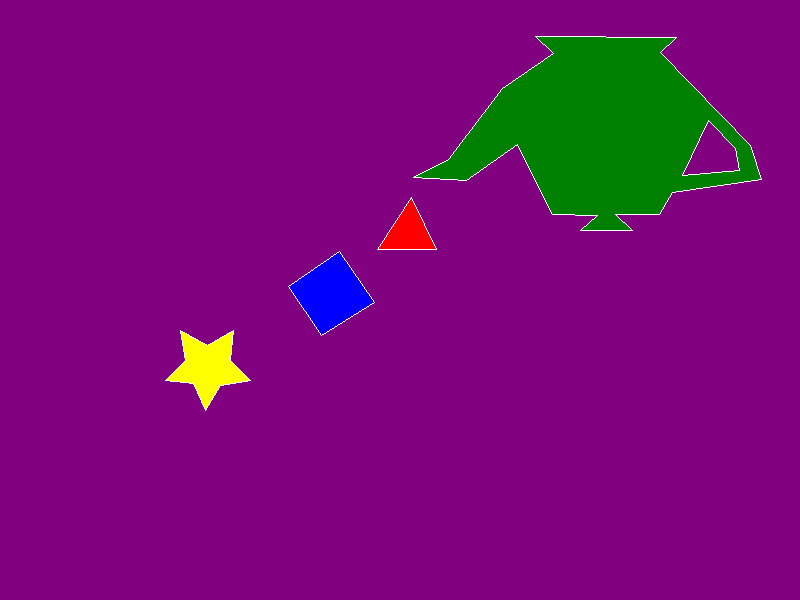
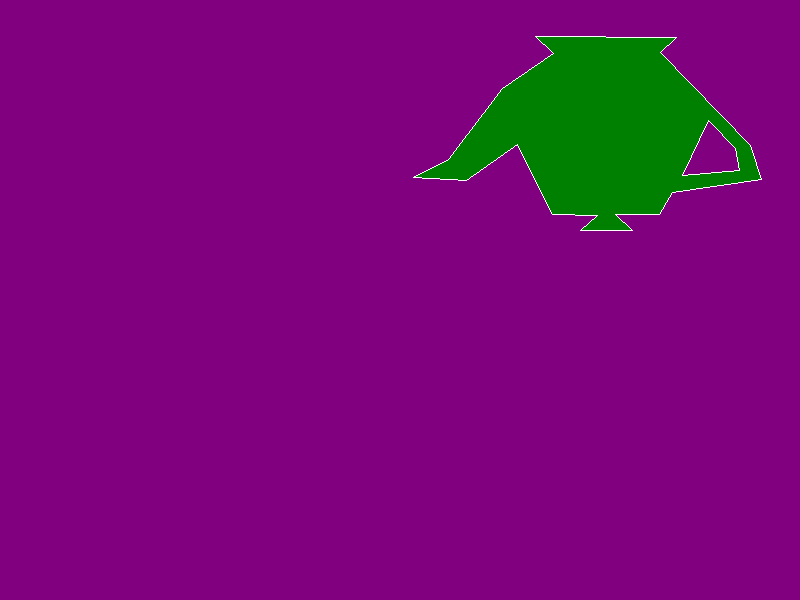
only draw polygon 4 and 5 as a hole

Changed region(s): [[0.3438, 0.42, 0.4688, 0.57], [0.2188, 0.54, 0.3125, 0.69], [0.4688, 0.33, 0.5625, 0.42]]

diff --git a/src/main.rs b/src/main.rs
@@ -12,52 +12,52 @@ fn main() {
     framebuffer.clear();
     framebuffer.set_background_color(Color::PURPLE);
 
-    // (165, 380) (185, 360) (180, 330) (207, 345) (233, 330) (230, 360) (250, 380) (220, 385) (205, 410) (193, 383)
+    // // (165, 380) (185, 360) (180, 330) (207, 345) (233, 330) (230, 360) (250, 380) (220, 385) (205, 410) (193, 383)
 
-    let poligono_1: Vec<Vector2> = vec![
-        Vector2::new(165.0, 380.0),
-        Vector2::new(185.0, 360.0),
-        Vector2::new(180.0, 330.0),
-        Vector2::new(207.0, 345.0),
-        Vector2::new(233.0, 330.0),
-        Vector2::new(230.0, 360.0),
-        Vector2::new(250.0, 380.0),
-        Vector2::new(220.0, 385.0),
-        Vector2::new(205.0, 410.0),
-        Vector2::new(193.0, 383.0),
-    ];
-
-
-    let poligono_1 = Polygon::new(poligono_1);
-    poligono_1.draw_outline(&mut framebuffer, Color::WHITE);
-
-    filling::flood_fill(&mut framebuffer, Vector2::new(200.0, 350.0), Color::YELLOW);
+    // let poligono_1: Vec<Vector2> = vec![
+    //     Vector2::new(165.0, 380.0),
+    //     Vector2::new(185.0, 360.0),
+    //     Vector2::new(180.0, 330.0),
+    //     Vector2::new(207.0, 345.0),
+    //     Vector2::new(233.0, 330.0),
+    //     Vector2::new(230.0, 360.0),
+    //     Vector2::new(250.0, 380.0),
+    //     Vector2::new(220.0, 385.0),
+    //     Vector2::new(205.0, 410.0),
+    //     Vector2::new(193.0, 383.0),
+    // ];
 
 
-    // (321, 335) (288, 286) (339, 251) (374, 302)
+    // let poligono_1 = Polygon::new(poligono_1);
+    // poligono_1.draw_outline(&mut framebuffer, Color::WHITE);
 
-    let poligono_2: Vec<Vector2> = vec![
-        Vector2::new(321.0, 335.0),
-        Vector2::new(288.0, 286.0),
-        Vector2::new(339.0, 251.0),
-        Vector2::new(374.0, 302.0),
-    ];
+    // filling::flood_fill(&mut framebuffer, Vector2::new(200.0, 350.0), Color::YELLOW);
 
-    let poligono_2 = Polygon::new(poligono_2);
-    poligono_2.draw_outline(&mut framebuffer, Color::WHITE);
-    filling::flood_fill(&mut framebuffer, Vector2::new(320.0, 300.0), Color::BLUE);
 
-    // (377, 249) (411, 197) (436, 249)
+    // // (321, 335) (288, 286) (339, 251) (374, 302)
 
-    let poligono_3: Vec<Vector2> = vec![
-        Vector2::new(377.0, 249.0),
-        Vector2::new(411.0, 197.0),
-        Vector2::new(436.0, 249.0),
-    ];
+    // let poligono_2: Vec<Vector2> = vec![
+    //     Vector2::new(321.0, 335.0),
+    //     Vector2::new(288.0, 286.0),
+    //     Vector2::new(339.0, 251.0),
+    //     Vector2::new(374.0, 302.0),
+    // ];
 
-    let poligono_3 = Polygon::new(poligono_3);
-    poligono_3.draw_outline(&mut framebuffer, Color::WHITE);
-    filling::flood_fill(&mut framebuffer, Vector2::new(410.0, 230.0), Color::RED);
+    // let poligono_2 = Polygon::new(poligono_2);
+    // poligono_2.draw_outline(&mut framebuffer, Color::WHITE);
+    // filling::flood_fill(&mut framebuffer, Vector2::new(320.0, 300.0), Color::BLUE);
+
+    // // (377, 249) (411, 197) (436, 249)
+
+    // let poligono_3: Vec<Vector2> = vec![
+    //     Vector2::new(377.0, 249.0),
+    //     Vector2::new(411.0, 197.0),
+    //     Vector2::new(436.0, 249.0),
+    // ];
+
+    // let poligono_3 = Polygon::new(poligono_3);
+    // poligono_3.draw_outline(&mut framebuffer, Color::WHITE);
+    // filling::flood_fill(&mut framebuffer, Vector2::new(410.0, 230.0), Color::RED);
     
     // (413, 177) (448, 159) (502, 88) (553, 53) (535, 36) (676, 37) (660, 52)
     // (750, 145) (761, 179) (672, 192) (659, 214) (615, 214) (632, 230) (580, 230)